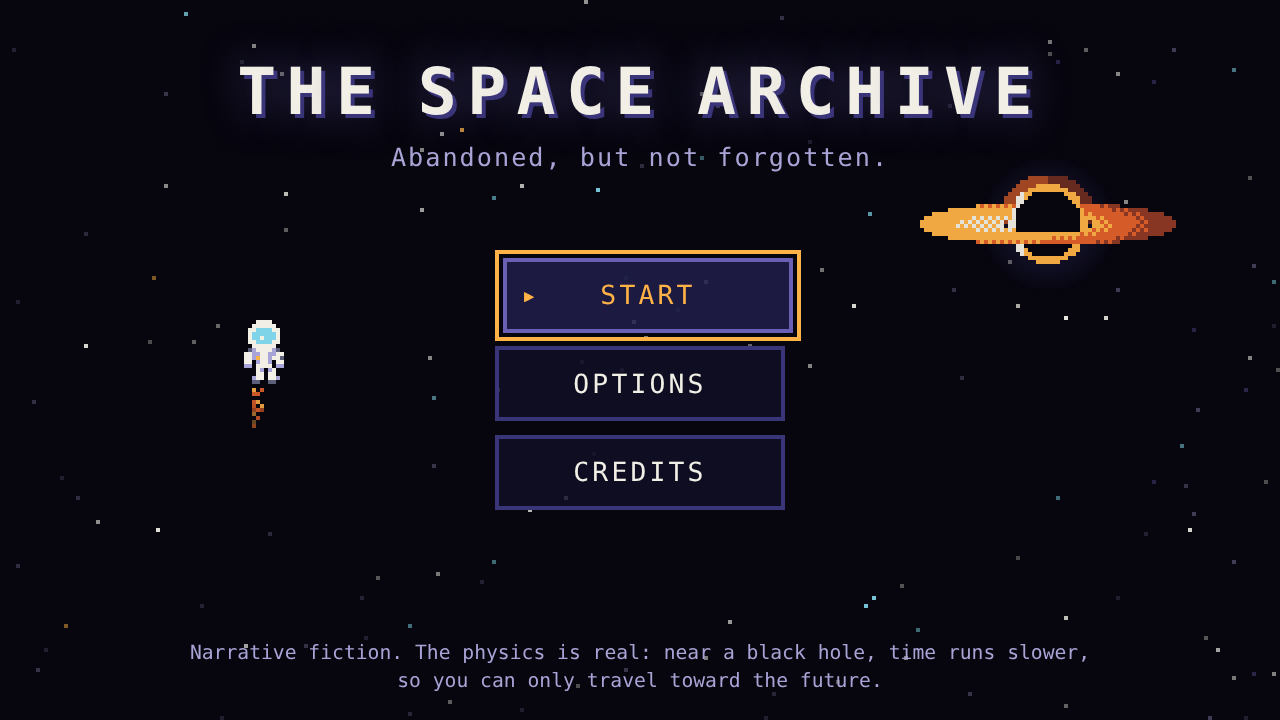
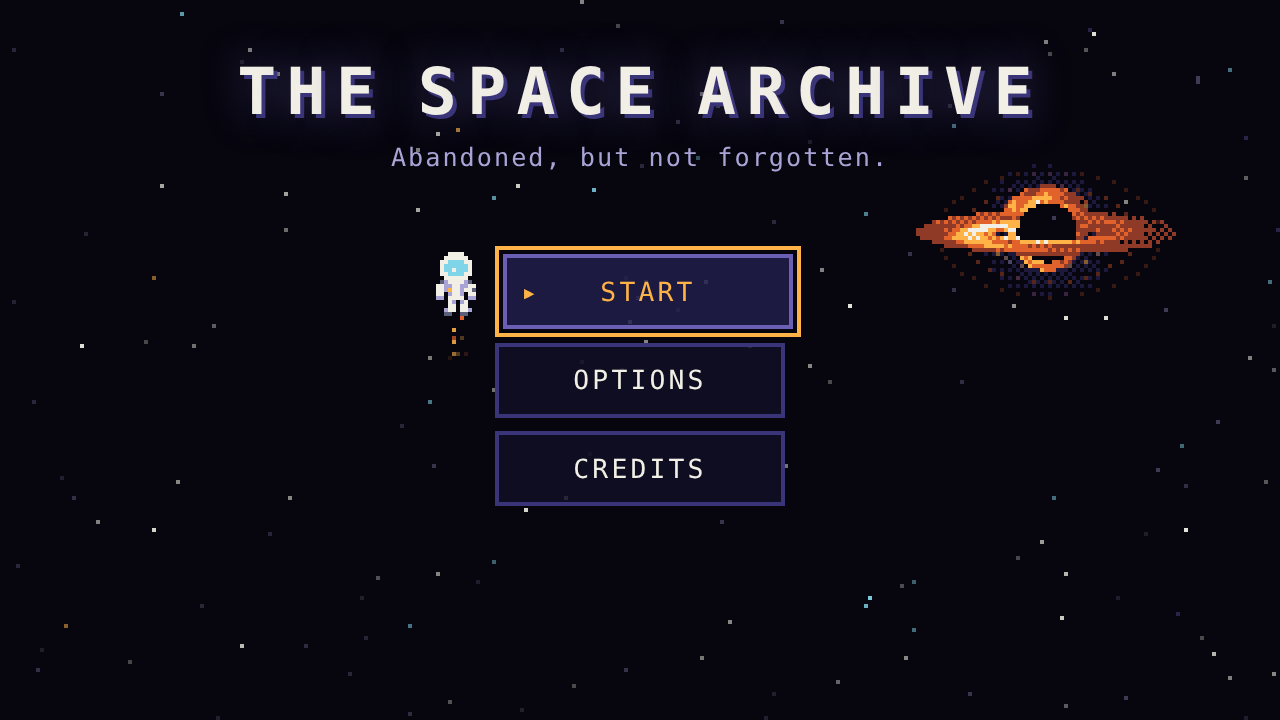
feat: add interactive title screen

diff --git a/js/scenes/title.js b/js/scenes/title.js
@@ -1,71 +1,42 @@
 // Title screen: logo, tagline, menu and options panel.
-// The canvas shows a quiet scene: parallax stars, a distant black hole and
-// the astronaut drifting with a small thruster glow.
+// The canvas is a small living scene: a parallax starfield that shifts with
+// the pointer, a black hole that reacts to the START button and to clicks,
+// and the astronaut, who floats over to the menu button that has the focus.
 
 import { C } from '../data/palette.js';
 import { SPRITES } from '../data/sprites.js';
 import { t } from '../engine/i18n.js';
-import { clear, drawSprite, ctx, WIDTH, HEIGHT } from '../engine/render.js';
-import { Starfield, Particles, shake, lerp } from '../engine/fx.js';
+import { clear, px, ctx, bakeSprite, WIDTH, HEIGHT } from '../engine/render.js';
+import { Starfield, Particles, shake, ease, lerp, clamp } from '../engine/fx.js';
 import { el, button, arrowNav } from '../engine/ui.js';
 import * as scenes from '../engine/scenes.js';
 import * as input from '../engine/input.js';
 import { sfx, drone } from '../engine/audio.js';
 import { gameState } from '../state.js';
 import { createOptions } from './options.js';
+import { renderBlackHole } from './intro.js';
 
-const ASTRO = { x: 58, y: 82 };       // astronaut resting position (game pixels)
-const HOLE = { x: 226, y: 34 };       // top-left corner of the black hole picture
+const HOME = { x: 58, y: 86 };        // where the astronaut rests (game pixels)
+const HOLE = { x: 262, y: 58, rs: 7 };          // black hole center and shadow radius
+const HOLE_CLICK = 30;                // GAME VALUE: a click this close to the hole makes a ripple
+const FOLLOW = 11;                    // GAME VALUE: pull toward her target
+const FOLLOW_DRAG = 5;                // GAME VALUE: damping (gives the inertia)
+const RIPPLE_TIME = 1.1;              // seconds a lensing ripple lasts
 
 let stars, dust, glow;                // canvas effects
 let time = 0;
+let diskClock = 0;                    // drives the spin of the accretion disk
+let boost = 0;                        // 0..1: START is hovered or focused
 let parallax = { x: 0, y: 0, tx: 0, ty: 0 };   // current and target star offset
-let holeImage = null;
+const astro = { x: HOME.x, y: HOME.y, vx: 0, vy: 0, facing: false };
+let ripples = [];                     // [{ t }] lensing ripples in progress
 let dom = {};                         // references to DOM nodes we update
 let options = null;                   // the options panel
 let offInput = null;
 
-// Draw the distant black hole once into a small canvas.
-// Stylized: a dark disc, a thin bright ring of bent light around it, and a
-// tilted accretion disk that is brighter on the side moving toward us.
-function bakeBlackHole() {
-  const w = 72, h = 44, cx = 36, cy = 22;
-  const img = document.createElement('canvas');
-  img.width = w;
-  img.height = h;
-  const g = img.getContext('2d');
-  const shades = [C.rust, C.ember, C.amber, C.star];
-  const dot = (x, y, color, alpha = 1) => {
-    g.globalAlpha = alpha;
-    g.fillStyle = color;
-    g.fillRect(x, y, 1, 1);
-  };
-  for (let y = 0; y < h; y++) {
-    for (let x = 0; x < w; x++) {
-      const dx = x - cx + 0.5, dy = y - cy + 0.5;
-      const r = Math.hypot(dx, dy);
-      const side = 0.5 - (0.5 * dx) / 32;                    // 1 on the left, 0 on the right
-      const disk = Math.hypot(dx / 32, dy / 5.5);            // 1 at the disk's outer edge
-      const onDisk = disk < 1 && disk > 0.36;
-      const shade = (b) => shades[Math.max(0, Math.min(3, Math.floor(b * 4)))];
-
-      if (onDisk && (dy >= 0 || r > 9.5)) {
-        // Accretion disk. The half in front of the hole covers it.
-        const dither = (x + y) % 2 ? 0.08 : 0;
-        dot(x, y, shade((1 - disk) * 0.55 + side * 0.6 + dither));
-      } else if (r < 8.5) {
-        dot(x, y, C.void);                                   // the dark shadow
-      } else if (r < 10) {
-        dot(x, y, shade(0.45 + side * 0.5));                 // ring of bent light
-      } else if (r < 12.5 && dy < 0) {
-        dot(x, y, shade(side * 0.5), 0.75);                  // far side of the disk, bent over the top
-      } else if (r < 17) {
-        dot(x, y, C.indigo, 0.22 * (1 - (r - 10) / 7));      // soft halo
-      }
-    }
-  }
-  return img;
-}
+const still = () => gameState.settings.reducedMotion;
+// A gentle bob, kept even with reduced motion.
+const bob = () => Math.sin(time * 0.9) * (still() ? 1.5 : 3);
 
 // ---------- DOM ----------
 
@@ -103,7 +74,7 @@ function buildUI(ui) {
   });
 
   ui.append(root, options.panel);
-  dom = { root, menu, optionsButton, notice };
+  dom = { root, menu, start, optionsButton, notice };
   start.focus({ preventScroll: true });
 }
 
@@ -123,7 +94,7 @@ function openScene(name, withBurst) {
       const a = Math.PI * (0.25 + 0.5 * Math.random());      // downward cone
       const v = 14 + Math.random() * 26;
       glow.spawn({
-        x: ASTRO.x + 6, y: bobY() + 15, vx: Math.cos(a) * v, vy: Math.sin(a) * v,
+        x: astro.x, y: astro.y + bob() + 7, vx: Math.cos(a) * v, vy: Math.sin(a) * v,
         life: 0.5 + Math.random() * 0.5, color: Math.random() < 0.5 ? C.amber : C.ember, drag: 2,
       });
     }
@@ -138,26 +109,66 @@ function openScene(name, withBurst) {
 
 // ---------- canvas ----------
 
-const bobY = () => ASTRO.y + Math.sin(time * 0.9) * 3;
+// Where the astronaut wants to be: next to the menu button that has the focus
+// (or is hovered, since hovering focuses it), or her resting spot.
+function targetSpot() {
+  const active = document.activeElement;
+  if (!options.isOpen() && active instanceof HTMLElement && dom.menu.contains(active)) {
+    const stage = document.getElementById('stage').getBoundingClientRect();
+    const r = active.getBoundingClientRect();
+    return {
+      x: ((r.left - stage.left) / stage.width) * WIDTH - 12,
+      y: ((r.top + r.height / 2 - stage.top) / stage.height) * HEIGHT,
+      start: active === dom.start,
+    };
+  }
+  return { x: HOME.x, y: HOME.y, start: false };
+}
+
+// A lensing ripple: rings of bent starlight that spread out from the hole.
+function drawRipples() {
+  for (const ripple of ripples) {
+    const k = ripple.t / RIPPLE_TIME;
+    for (let ring = 0; ring < 2; ring++) {
+      const radius = HOLE.rs * (1.6 + (k * 6 + ring * 1.3));
+      const steps = Math.round(radius * 2.2);
+      for (let i = 0; i < steps; i++) {
+        // Broken arcs, like stretched images of stars, not a solid circle.
+        if ((i + ring * 3) % 5 > 2) continue;
+        const a = (i / steps) * Math.PI * 2 + k * (ring ? -1.4 : 1.4);
+        px(HOLE.x + Math.cos(a) * radius, HOLE.y + Math.sin(a) * radius * 0.8, ring ? C.ice : C.star, (1 - k) * (ring ? 0.6 : 0.9));
+      }
+    }
+  }
+}
 
 export default {
   enter(_params, ui) {
     time = 0;
-    stars = new Starfield(120, 11);
+    boost = 0;
+    ripples = [];
+    Object.assign(astro, { x: HOME.x, y: HOME.y, vx: 0, vy: 0, facing: false });
+    stars = new Starfield(140, 11);
     dust = new Particles(40);
-    glow = new Particles(80);
-    holeImage ??= bakeBlackHole();
+    glow = new Particles(90);
     buildUI(ui);
-
     drone(true);
 
     offInput = input.on((a) => {
       if (a.type === 'back') options.close();
+      // Arrows or W/S move between the buttons (the focus change plays the blip).
       else if (a.type === 'direction') arrowNav(options.isOpen() ? options.panel : dom.menu, a.dy > 0 || a.dx > 0 ? 'ArrowDown' : 'ArrowUp');
       else if (a.type === 'pointer') {
         // The stars shift slightly with the pointer for a feeling of depth.
-        parallax.tx = (a.x / WIDTH - 0.5) * -10;
-        parallax.ty = (a.y / HEIGHT - 0.5) * -6;
+        parallax.tx = (a.x / WIDTH - 0.5) * -12;
+        parallax.ty = (a.y / HEIGHT - 0.5) * -7;
+      } else if (a.type === 'confirm' && a.fromPointer && !options.isOpen() && Math.hypot(a.x - HOLE.x, a.y - HOLE.y) < HOLE_CLICK) {
+        // A click on the black hole: a soft sound and, unless motion is reduced, a ripple.
+        sfx('ripple');
+        if (!still()) {
+          ripples.push({ t: 0 });
+          shake.add(0.8);
+        }
       }
     });
   },
@@ -167,13 +178,36 @@ export default {
   },
 
   update(dt) {
-    const still = gameState.settings.reducedMotion;
-    if (!still) time += dt;
+    time += dt;
+    const reduced = still();
     stars.update(dt, 1.5);
-    parallax.x = still ? 0 : lerp(parallax.x, parallax.tx, 1 - Math.exp(-5 * dt));
-    parallax.y = still ? 0 : lerp(parallax.y, parallax.ty, 1 - Math.exp(-5 * dt));
+    parallax.x = reduced ? 0 : lerp(parallax.x, parallax.tx, 1 - Math.exp(-5 * dt));
+    parallax.y = reduced ? 0 : lerp(parallax.y, parallax.ty, 1 - Math.exp(-5 * dt));
 
-    if (!still) {
+    // The astronaut drifts to her target with a soft spring (inertia), and puffs
+    // her thrusters while she speeds up. With reduced motion she stays home.
+    const target = reduced ? { x: HOME.x, y: HOME.y, start: targetSpot().start } : targetSpot();
+    const ax = (target.x - astro.x) * FOLLOW, ay = (target.y - astro.y) * FOLLOW;
+    astro.vx += (ax - astro.vx * FOLLOW_DRAG) * dt;
+    astro.vy += (ay - astro.vy * FOLLOW_DRAG) * dt;
+    astro.x += astro.vx * dt;
+    astro.y += astro.vy * dt;
+    if (Math.abs(astro.vx) > 4) astro.facing = astro.vx < 0;
+    else if (Math.hypot(astro.vx, astro.vy) < 3) astro.facing = false;      // at rest she looks toward the menu
+    const push = Math.hypot(ax, ay);
+    if (!reduced && push > 70 && Math.random() < 0.6) {
+      glow.spawn({
+        x: astro.x - (ax / push) * 5, y: astro.y + bob() - (ay / push) * 6, vx: -(ax / push) * (16 + Math.random() * 20), vy: -(ay / push) * (16 + Math.random() * 20),
+        drag: 2.5, life: 0.3 + Math.random() * 0.35, color: Math.random() < 0.55 ? C.amber : C.ember, alpha: 0.9,
+      });
+    }
+
+    // START hovered or focused: the hole glows and its disk spins faster.
+    boost = lerp(boost, target.start ? 1 : 0, 1 - Math.exp(-4 * dt));
+    diskClock += dt * (reduced ? 0.4 : 1 + boost * 2.6);
+    ripples = ripples.filter((r) => (r.t += dt) < RIPPLE_TIME);
+
+    if (!reduced) {
       // Slow dust motes drifting across the screen.
       if (Math.random() < 0.05) {
         dust.spawn({
@@ -181,10 +215,10 @@ export default {
           life: 12, color: Math.random() < 0.5 ? C.violet : C.mist, alpha: 0.35,
         });
       }
-      // Small thruster glow under the astronaut's backpack.
-      if (Math.random() < 0.35) {
+      // A small idle thruster glow under her backpack.
+      if (Math.random() < 0.25) {
         glow.spawn({
-          x: ASTRO.x + 5 + Math.random() * 2, y: bobY() + 16, vx: (Math.random() - 0.5) * 5, vy: 9 + Math.random() * 8,
+          x: astro.x - 1 + Math.random() * 2, y: astro.y + bob() + 8, vx: (Math.random() - 0.5) * 5, vy: 9 + Math.random() * 8,
           life: 0.5 + Math.random() * 0.4, color: Math.random() < 0.6 ? C.amber : C.ember, alpha: 0.9,
         });
       }
@@ -197,12 +231,29 @@ export default {
     clear();
     stars.render(parallax.x, parallax.y);
     // The black hole is far away, so it moves less than the nearest stars.
-    const pulse = 0.92 + 0.08 * Math.sin(time * 0.7);
-    ctx.globalAlpha = pulse;
-    ctx.drawImage(holeImage, Math.round(HOLE.x + parallax.x * 0.2), Math.round(HOLE.y + parallax.y * 0.2));
-    ctx.globalAlpha = 1;
+    const hx = HOLE.x + parallax.x * 0.2, hy = HOLE.y + parallax.y * 0.2;
+    // Its glow: a soft halo that grows with `boost` and during a ripple.
+    const flare = clamp(boost + (ripples.length ? 0.6 : 0));
+    if (flare > 0.02) {
+      for (let ring = 0; ring < 3; ring++) {
+        const radius = HOLE.rs * (2.2 + ring * 0.9), steps = Math.round(radius * 3);
+        for (let i = 0; i < steps; i++) {
+          const a = (i / steps) * Math.PI * 2;
+          if ((i + ring) % 2) px(hx + Math.cos(a) * radius, hy + Math.sin(a) * radius * 0.55, ring ? C.ember : C.amber, flare * (0.5 - ring * 0.14));
+        }
+      }
+    }
+    ctx.drawImage(renderBlackHole(hx, hy, HOLE.rs * (1 + 0.06 * ease.inOutSine(flare)), diskClock), 0, 0);
+    drawRipples();
     dust.render();
     glow.render();
-    drawSprite(SPRITES.astronaut, ASTRO.x + Math.sin(time * 0.5) * 2, bobY());
+
+    // The astronaut, turned toward the way she is flying.
+    const img = bakeSprite(SPRITES.astronaut);
+    ctx.save();
+    ctx.translate(Math.round(astro.x), Math.round(astro.y + bob()));
+    ctx.scale(astro.facing ? -1 : 1, 1);
+    ctx.drawImage(img, -6, -8);
+    ctx.restore();
   },
 };

diff --git a/js/scenes/intro.js b/js/scenes/intro.js
@@ -132,6 +132,13 @@ function drawHole(cx, cy, rs, clock) {
   holeCtx.putImageData(holeImage, 0, 0);
 }
 
+// The same black hole picture for other scenes (the title screen): draws it and
+// returns the canvas, ready for ctx.drawImage(canvas, 0, 0).
+export function renderBlackHole(cx, cy, rs, clock) {
+  drawHole(cx, cy, rs, clock);
+  return holeCanvas;
+}
+
 // Background stars, bent by the black hole.
 // Point-lens equation: a star at angular distance b from the hole appears at
 // th = (b + sqrt(b^2 + 4 E^2)) / 2 on the same side, and a second, fainter

diff --git a/js/engine/audio.js b/js/engine/audio.js
@@ -122,6 +122,11 @@ const SOUNDS = {
     noise({ dur: 0.15, from: 300, to: 120, vol: 0.2 });
     tone({ freq: 392, at: 0.05, dur: 0.12, type: 'triangle', vol: 0.1 });
   },
+  ripple: () => {
+    tone({ freq: 196, f1: 98, dur: 0.9, type: 'sine', vol: 0.14 });
+    tone({ freq: 294, f1: 147, at: 0.08, dur: 0.8, type: 'sine', vol: 0.07 });
+    noise({ dur: 0.7, from: 900, to: 200, vol: 0.05 });
+  },
   lastSignal: () => {
     tone({ freq: 880, dur: 0.5, type: 'sine', vol: 0.12 });
     tone({ freq: 660, at: 0.7, dur: 0.7, type: 'sine', vol: 0.08 });
